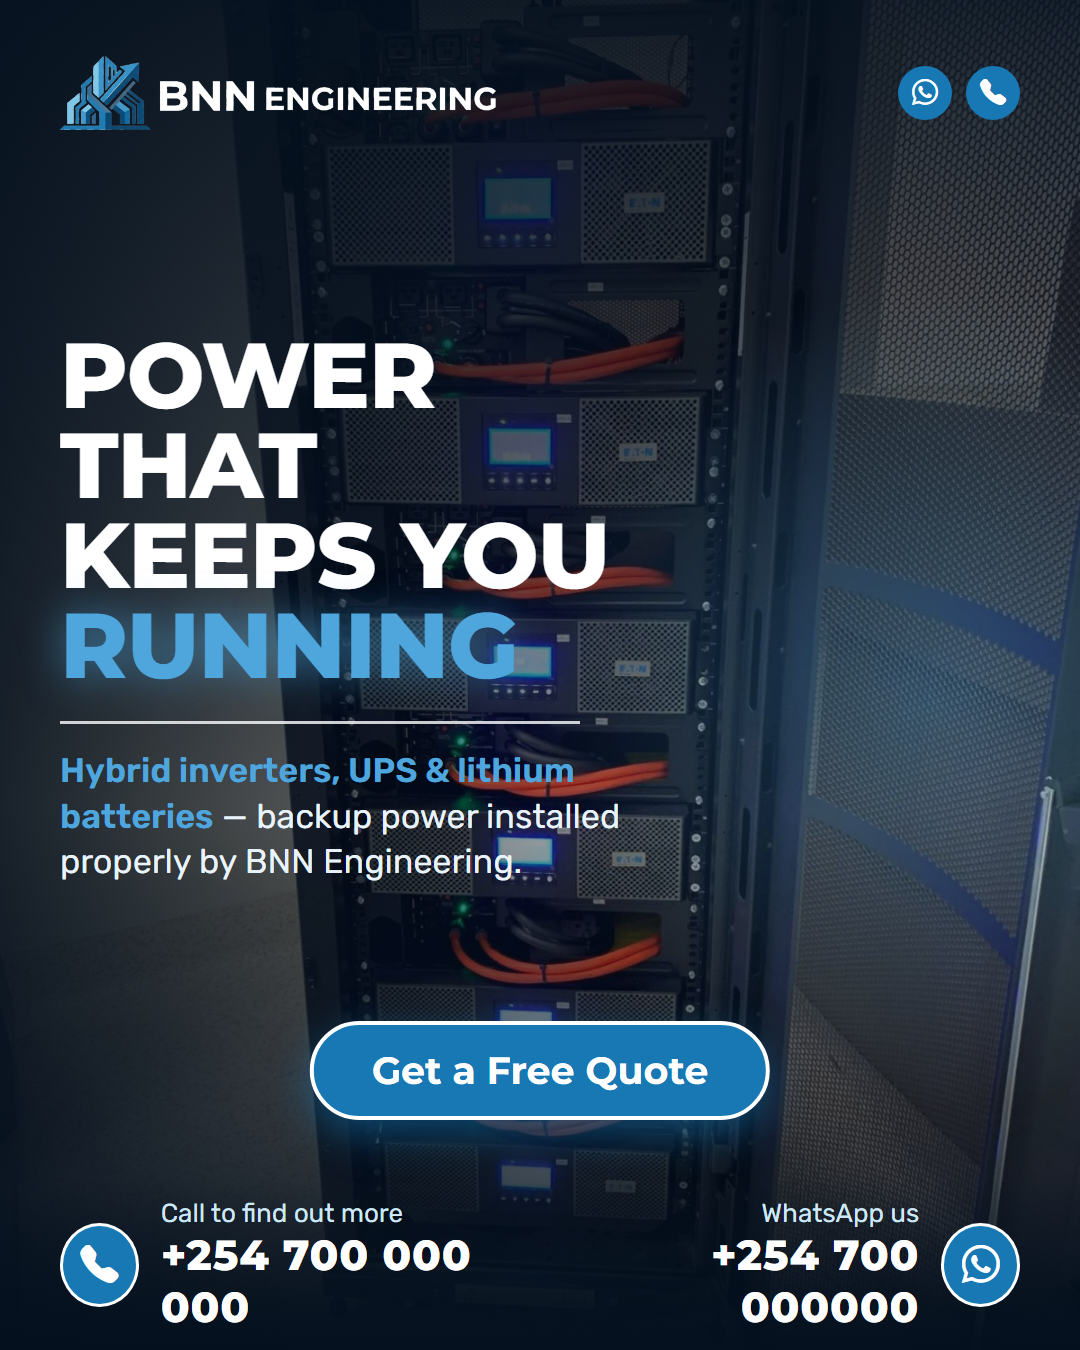
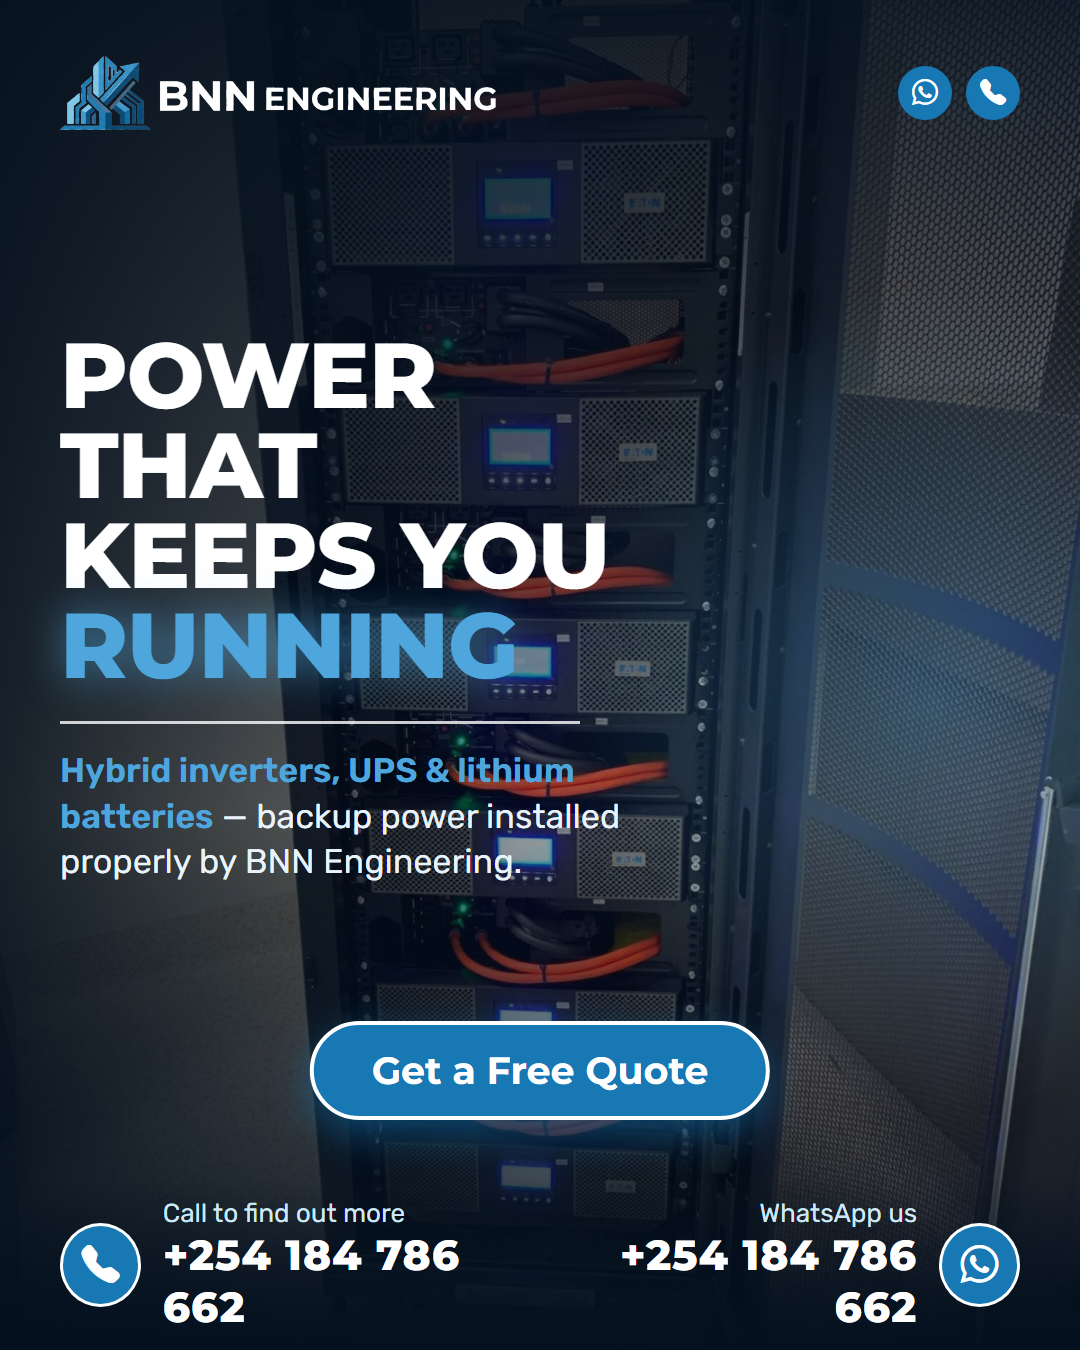
Adverts: re-render posters with new phone numbers (0184 786 662 / WhatsApp) and info@ email

Changed region(s): [[0.5806, 0.8711, 0.9472, 0.9956], [0.0917, 0.8711, 0.4278, 0.9956]]

diff --git a/pages/management/commands/render_adverts.py b/pages/management/commands/render_adverts.py
@@ -53,7 +53,7 @@ class Command(BaseCommand):
         shop = SiteSettings.load()
         static_img = Path(settings.BASE_DIR) / 'static' / 'img'
         wa = shop.whatsapp or ''
-        wa_display = ('+' + wa[:3] + ' ' + wa[3:6] + ' ' + wa[6:]) if len(wa) >= 9 else wa
+        wa_display = ('+' + ' '.join([wa[:3], wa[3:6], wa[6:9], wa[9:]]).strip()) if len(wa) >= 9 else wa
         tmp = Path(tempfile.mkdtemp(prefix='bnn-adverts-'))
         try:
             for i, (key, tpl, photo, title, link, caption) in enumerate(POSTERS):
